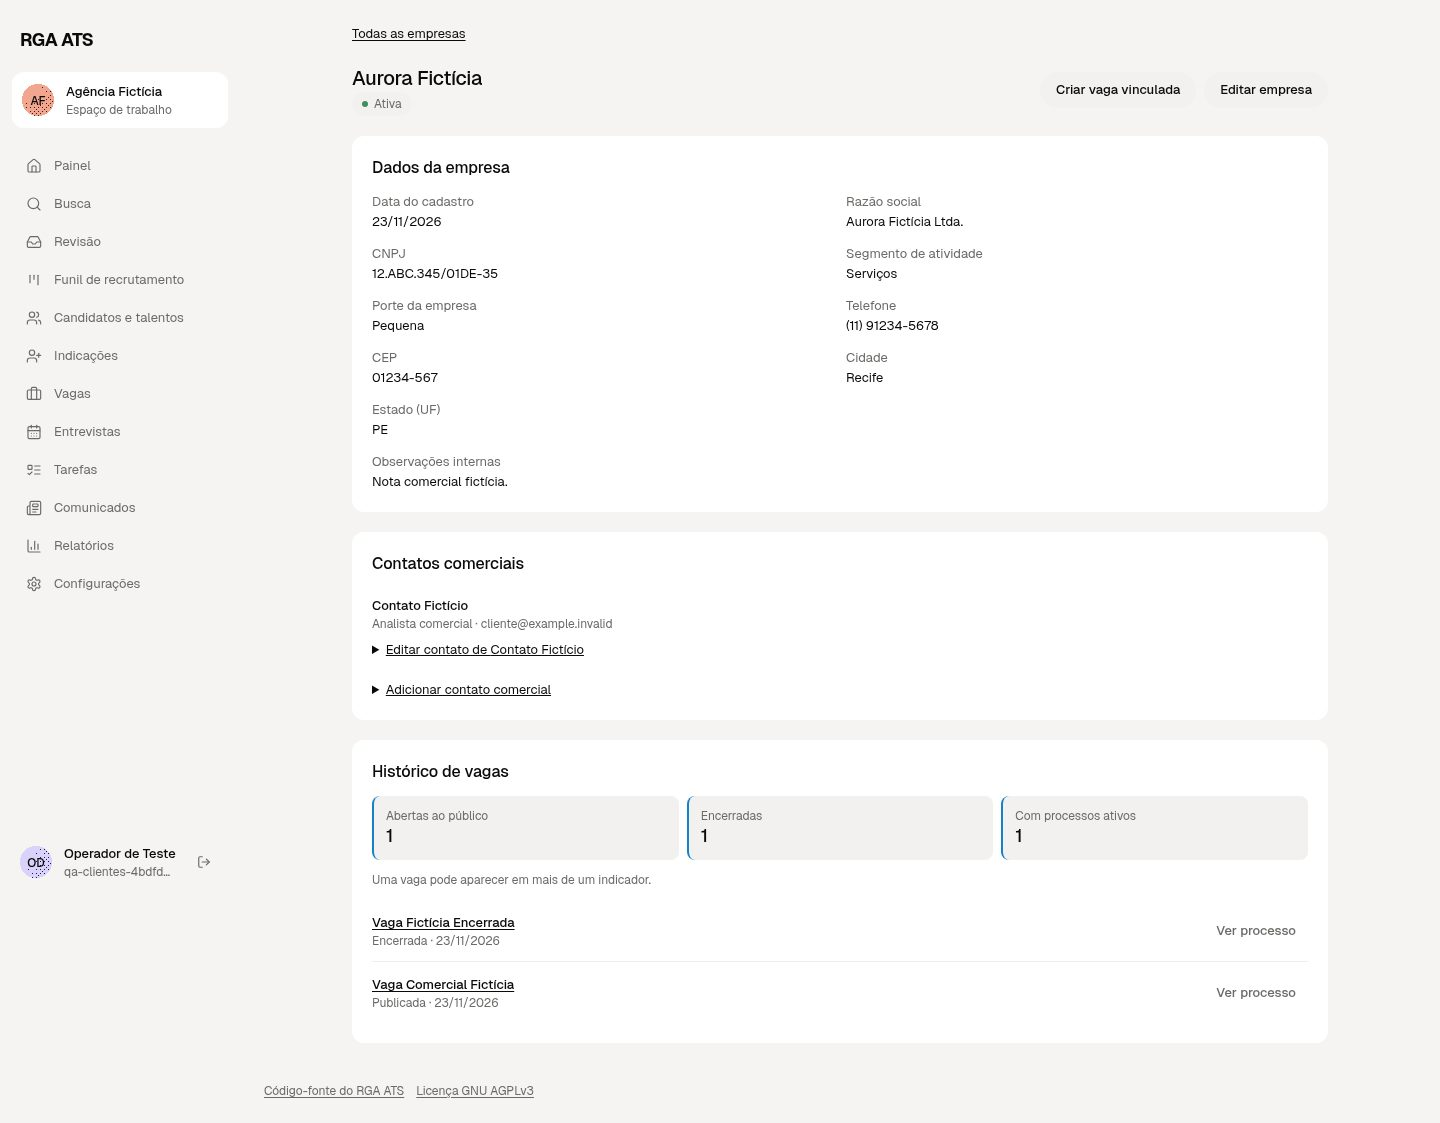
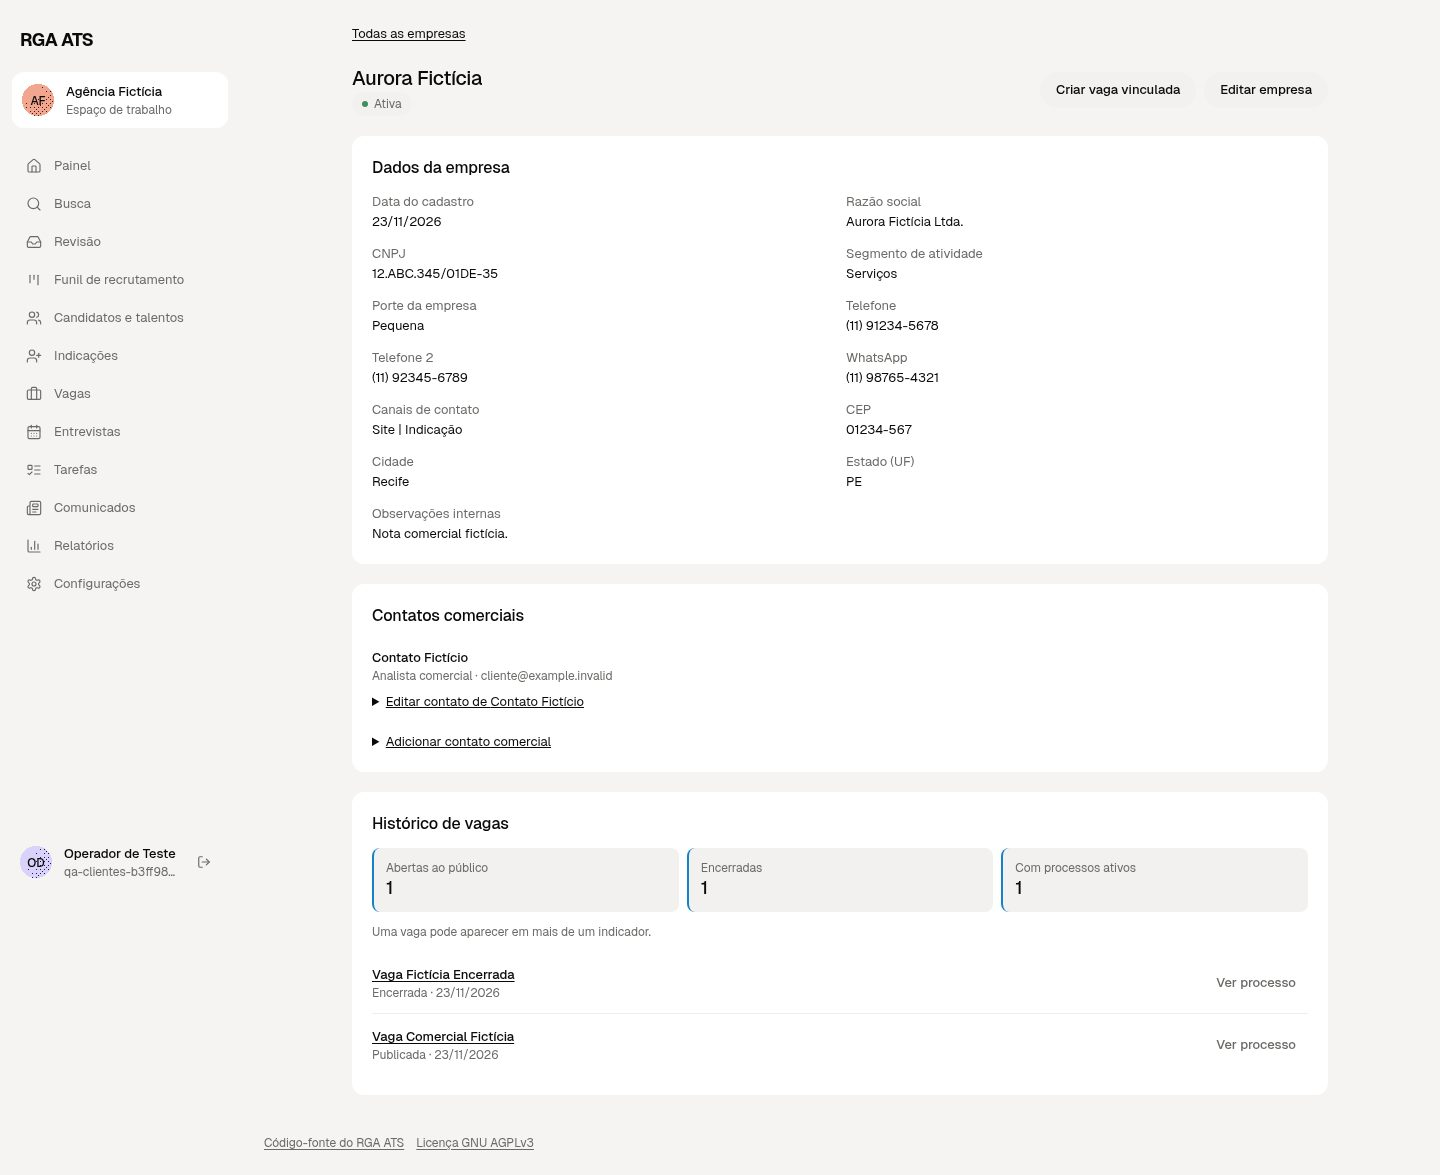
Preservar empresas clientes na exportação e restauração

diff --git a/tests/export-import.test.ts b/tests/export-import.test.ts
@@ -1,16 +1,32 @@
 import { execFileSync } from 'node:child_process';
-import { mkdtempSync, writeFileSync } from 'node:fs';
+import { randomUUID } from 'node:crypto';
+import { mkdtempSync, rmSync, writeFileSync } from 'node:fs';
 import { tmpdir } from 'node:os';
 import path from 'node:path';
 import { beforeAll, describe, expect, it, vi } from 'vitest';
 import { hasDb } from './setup';
 import { candidate, createOrg } from './fixtures';
 import { db } from '@/lib/db';
+import { clientPostingHistory, setPostingClient } from '@/server/client-companies';
 
 const auth = vi.hoisted(() => ({ session: null as null | { user: { orgId: string; accessRole: string } } }));
 vi.mock('@/lib/auth', () => ({ auth: async () => auth.session }));
 
 const { GET } = await import('@/app/api/export/route');
+
+function restoreOrg(text: string, slug: string) {
+  const directory = mkdtempSync(path.join(tmpdir(), 'source-export-'));
+  try {
+    const file = path.join(directory, 'export.json');
+    writeFileSync(file, text);
+    execFileSync(process.execPath, ['scripts/import-org.mjs', file, '--slug', slug], {
+      env: { ...process.env, DATABASE_URL: process.env.TEST_DATABASE_URL, DIRECT_URL: process.env.TEST_DATABASE_URL },
+      stdio: 'pipe',
+    });
+  } finally {
+    rmSync(directory, { recursive: true, force: true });
+  }
+}
 
 async function counts(orgId: string) {
   const [contacts, opportunities, transitions, interviews, panel, notes, events] = await Promise.all([
@@ -60,16 +76,11 @@ describe.skipIf(!hasDb)('org export → import-org round trip', () => {
     expect(response.headers.get('content-disposition')).toMatch(/attachment; filename="source-export-/);
     const text = await response.text();
     const dump = JSON.parse(text);
-    expect(dump.exportVersion).toBe(2);
+    expect(dump.exportVersion).toBe(3);
     expect(dump.contacts).toHaveLength(1_101);
 
-    const file = path.join(mkdtempSync(path.join(tmpdir(), 'source-export-')), 'export.json');
-    writeFileSync(file, text);
-    const slug = `copy-${Date.now()}`;
-    execFileSync('node', ['scripts/import-org.mjs', file, '--slug', slug], {
-      env: { ...process.env, DATABASE_URL: process.env.TEST_DATABASE_URL, DIRECT_URL: process.env.TEST_DATABASE_URL },
-      stdio: 'pipe',
-    });
+    const slug = `copy-${randomUUID()}`;
+    restoreOrg(text, slug);
 
     const copy = await db.organization.findUniqueOrThrow({ where: { slug } });
     expect(await counts(copy.id)).toEqual(await counts(orgId));
@@ -109,5 +120,122 @@ describe.skipIf(!hasDb)('org export → import-org round trip', () => {
     const contactIds = new Set(dump.contacts.map((c: { id: string }) => c.id));
     const dangling = dump.opportunities.filter((o: { contactId: string }) => !contactIds.has(o.contactId));
     expect(dangling).toEqual([]);
+  });
+});
+
+describe.skipIf(!hasDb)('client company export → restore', () => {
+  let sourceOrgId: string;
+  let sourceCompany: Awaited<ReturnType<typeof db.clientCompany.create>>;
+  let formerCompanyId: string;
+  let sourceContact: Awaited<ReturnType<typeof db.clientCompanyContact.create>>;
+  let sourcePostingId: string;
+  let foreignOrgId: string;
+  let foreignCompanyId: string;
+  let exportText: string;
+
+  beforeAll(async () => {
+    const { org, admin } = await createOrg();
+    sourceOrgId = org.id;
+    await db.organization.update({ where: { id: org.id }, data: { kind: 'AGENCY' } });
+    const { org: foreignOrg } = await createOrg();
+    foreignOrgId = foreignOrg.id;
+    const foreignCompany = await db.clientCompany.create({ data: { orgId: foreignOrgId, name: 'Outra organização' } });
+    foreignCompanyId = foreignCompany.id;
+    await db.clientCompanyContact.create({ data: { clientCompanyId: foreignCompanyId, name: 'Contato externo' } });
+
+    const former = await db.clientCompany.create({ data: { orgId: org.id, name: 'Cliente anterior', createdAt: null } });
+    formerCompanyId = former.id;
+    const current = await db.clientCompany.create({
+      data: {
+        orgId: org.id, name: 'Empresa Fictícia', legalName: 'Empresa Fictícia Ltda.',
+        cnpj: '12ABC34501DE35', stateRegistration: '123456', segment: 'Serviços', size: 'Pequena',
+        responsibleName: 'Pessoa Fictícia', responsibleRole: 'Compras', phone: '1134567890',
+        secondaryPhone: '11912345678', whatsapp: '11987654321', channels: 'Site | Indicação',
+        email: 'empresa@example.invalid', website: 'https://empresa.example.invalid/',
+        postalCode: '01234567', address: 'Rua Fictícia, 10', city: 'São Paulo', state: 'SP',
+        notes: 'Nota interna\nSegunda linha', source: 'Indicação', externalSource: 'gestao-de-trabalho',
+        externalId: 'emp-001', createdAt: new Date('2025-05-20T12:34:00Z'),
+      },
+    });
+    sourceContact = await db.clientCompanyContact.create({
+      data: {
+        clientCompanyId: current.id, name: 'Contato Fictício', role: 'RH',
+        phone: '1123456789', whatsapp: '11923456789', email: 'contato@example.invalid',
+      },
+    });
+    const posting = await db.posting.create({
+      data: { orgId: org.id, clientCompanyId: former.id, title: 'Vaga fictícia', slug: 'vaga-ficticia' },
+    });
+    sourcePostingId = posting.id;
+    await setPostingClient({ orgId: org.id, userId: admin.id, accessRole: 'SUPER_ADMIN' }, posting.id, current.id);
+    sourceCompany = await db.clientCompany.update({ where: { id: current.id }, data: { active: false } });
+    auth.session = { user: { orgId: org.id, accessRole: 'ADMIN' } };
+    exportText = await (await GET()).text();
+  });
+
+  it('restores every profile and contact field, current links and the previous-client history', async () => {
+    const dump = JSON.parse(exportText);
+    expect(dump.exportVersion).toBe(3);
+    expect(dump.clientCompanies.map(({ id }: { id: string }) => id)).toEqual(expect.arrayContaining([sourceCompany.id, formerCompanyId]));
+    expect(dump.clientCompanies).toHaveLength(2);
+    expect(dump.clientCompanyContacts).toEqual([sourceContact]);
+    const slug = `restore-clients-${randomUUID()}`;
+    restoreOrg(exportText, slug);
+    const copy = await db.organization.findUniqueOrThrow({ where: { slug }, include: { users: true } });
+    const companies = await db.clientCompany.findMany({ where: { orgId: copy.id }, include: { commercialContacts: true } });
+    const company = companies.find((c) => c.name === sourceCompany.name)!;
+    const previous = companies.find((c) => c.name === 'Cliente anterior')!;
+    expect(company.id).not.toBe(sourceCompany.id);
+    expect(company.commercialContacts).toHaveLength(1);
+    expect(company.commercialContacts[0].id).not.toBe(sourceContact.id);
+    expect(company).toEqual({
+      ...sourceCompany, id: company.id, orgId: copy.id,
+      commercialContacts: [{ ...sourceContact, id: company.commercialContacts[0].id, clientCompanyId: company.id }],
+    });
+    expect(previous).toMatchObject({ active: true, createdAt: null });
+    expect(previous.id).not.toBe(formerCompanyId);
+    const posting = await db.posting.findFirstOrThrow({ where: { orgId: copy.id } });
+    expect(posting).toMatchObject({ title: 'Vaga fictícia', clientCompanyId: company.id });
+    expect(posting.id).not.toBe(sourcePostingId);
+    const history = await clientPostingHistory({ orgId: copy.id, userId: copy.users[0].id, accessRole: 'SUPER_ADMIN' }, previous.id);
+    expect(history.previous).toEqual([expect.objectContaining({ subjectId: posting.id, title: posting.title })]);
+    expect(await db.contact.count({ where: { orgId: copy.id } })).toBe(0);
+  });
+
+  it.each([1, 2])('restores old v%s dumps with basic client records and remaps posting links', async (version) => {
+    const dump = JSON.parse(exportText);
+    dump.exportVersion = version;
+    dump.clientCompanies = [{ id: sourceCompany.id, orgId: sourceOrgId, name: sourceCompany.name }];
+    delete dump.clientCompanyContacts;
+    if (version === 1) {
+      for (const key of ['tasks', 'offers', 'requisitions', 'customFieldDefs', 'planSteps', 'transcripts', 'savedReports', 'eeoResponses', 'importRefs']) {
+        delete dump[key];
+      }
+    }
+    const slug = `restore-v${version}-${randomUUID()}`;
+    restoreOrg(JSON.stringify(dump), slug);
+    const copy = await db.organization.findUniqueOrThrow({ where: { slug } });
+    const company = await db.clientCompany.findFirstOrThrow({ where: { orgId: copy.id } });
+    expect(company).toMatchObject({ name: sourceCompany.name, active: true, createdAt: null, cnpj: null });
+    expect(company.id).not.toBe(sourceCompany.id);
+    expect(await db.posting.findFirstOrThrow({ where: { orgId: copy.id } })).toMatchObject({ clientCompanyId: company.id });
+    expect(await db.clientCompanyContact.count({ where: { clientCompanyId: company.id } })).toBe(0);
+  });
+
+  it.each([
+    ['company', /Client company belongs to another organization/],
+    ['contact', /Commercial contact references a client company outside the export/],
+    ['posting link', /Posting references a client company outside the export/],
+    ['posting owner', /Posting belongs to another organization/],
+  ] as const)('rejects a foreign %s and leaves the destination untouched', async (record, message) => {
+    const dump = JSON.parse(exportText);
+    if (record === 'company') dump.clientCompanies[0].orgId = foreignOrgId;
+    if (record === 'contact') dump.clientCompanyContacts[0].clientCompanyId = foreignCompanyId;
+    if (record === 'posting link') dump.postings[0].clientCompanyId = foreignCompanyId;
+    if (record === 'posting owner') dump.postings[0].orgId = foreignOrgId;
+    const slug = `invalid-restore-${randomUUID()}`;
+    expect(() => restoreOrg(JSON.stringify(dump), slug)).toThrow(message);
+    expect(await db.organization.findUnique({ where: { slug } })).toBeNull();
+    expect(await db.clientCompanyContact.count({ where: { clientCompanyId: foreignCompanyId } })).toBe(1);
   });
 });

diff --git a/src/app/api/export/route.ts b/src/app/api/export/route.ts
@@ -10,9 +10,8 @@ import { db } from '@/lib/db';
  *
  * Streamed: each collection is read in id-ordered batches and written as it
  * goes, so memory stays flat and the download has no size ceiling (Vercel's
- * 4.5MB response cap doesn't apply to streamed bodies). The document shape is
- * identical to the old all-at-once export, so scripts/import-org.mjs reads it
- * unchanged.
+ * 4.5MB response cap doesn't apply to streamed bodies). The versioned
+ * document is read by scripts/import-org.mjs.
  *
  * All batches run in one read-only REPEATABLE READ transaction, so every
  * collection sees the same moment: a candidate added mid-export is either
@@ -49,7 +48,8 @@ function collections(db: Tx, orgId: string): [string, Batch][] {
         }),
     ],
     ['departments', (c) => db.department.findMany({ where: org, ...page(c) })],
-    ['clientCompanies', (c) => db.clientCompany.findMany({ where: org, select: { id: true, orgId: true, name: true }, ...page(c) })],
+    ['clientCompanies', (c) => db.clientCompany.findMany({ where: org, ...page(c) })],
+    ['clientCompanyContacts', (c) => db.clientCompanyContact.findMany({ where: { clientCompany: org }, ...page(c) })],
     ['stages', (c) => db.stage.findMany({ where: org, ...page(c) })],
     ['archiveReasons', (c) => db.archiveReason.findMany({ where: org, ...page(c) })],
     ['contacts', (c) => db.contact.findMany({ where: org, ...page(c) })],
@@ -92,9 +92,8 @@ function collections(db: Tx, orgId: string): [string, Batch][] {
 }
 
 async function* exportDocument(db: Tx, orgId: string, organization: unknown): AsyncGenerator<string> {
-  // v2 adds tasks/offers/requisitions/custom fields/plan steps/
-  // transcripts/saved reports/EEO; the importer accepts v1 too.
-  yield `{"exportVersion":2,"exportedAt":${JSON.stringify(new Date().toISOString())},`;
+  // v3 includes full client company profiles and their commercial contacts.
+  yield `{"exportVersion":3,"exportedAt":${JSON.stringify(new Date().toISOString())},`;
   yield `"organization":${JSON.stringify(organization)}`;
   for (const [key, next] of collections(db, orgId)) {
     yield `,${JSON.stringify(key)}:[`;

diff --git a/src/lib/client-company.ts b/src/lib/client-company.ts
@@ -13,7 +13,9 @@ export const companyFields = {
   responsibleName: 'Nome do responsável',
   responsibleRole: 'Cargo do responsável',
   phone: 'Telefone',
+  secondaryPhone: 'Telefone 2',
   whatsapp: 'WhatsApp',
+  channels: 'Canais de contato',
   email: 'E-mail',
   website: 'Site',
   postalCode: 'CEP',
@@ -124,7 +126,8 @@ export function parseCompany(form: FormData) {
     name, legalName, cnpj, state, postalCode,
     stateRegistration: read('stateRegistration', 40), segment: read('segment'), size: read('size'),
     responsibleName: read('responsibleName'), responsibleRole: read('responsibleRole'),
-    phone: parsePhone(read('phone', 32)), whatsapp: parsePhone(read('whatsapp', 32)),
+    phone: parsePhone(read('phone', 32)), secondaryPhone: parsePhone(read('secondaryPhone', 32)),
+    whatsapp: parsePhone(read('whatsapp', 32)), channels: read('channels'),
     email: parseEmail(read('email', 254)), website: parseWebsite(read('website', 512)),
     address: read('address', 300), city: read('city'), source: read('source'),
     notes: read('notes', 4000), active: form.get('status') !== 'inactive',

diff --git a/src/app/(app)/clients/[id]/page.tsx b/src/app/(app)/clients/[id]/page.tsx
@@ -29,7 +29,8 @@ export default async function ClientDetailPage({ params, searchParams }: {
     ['legalName', client.legalName], ['cnpj', client.cnpj && maskCnpj(client.cnpj)],
     ['stateRegistration', client.stateRegistration], ['segment', client.segment], ['size', client.size],
     ['responsibleName', client.responsibleName], ['responsibleRole', client.responsibleRole],
-    ['phone', client.phone && maskPhone(client.phone)], ['whatsapp', client.whatsapp && maskPhone(client.whatsapp)],
+    ['phone', client.phone && maskPhone(client.phone)], ['secondaryPhone', client.secondaryPhone && maskPhone(client.secondaryPhone)],
+    ['whatsapp', client.whatsapp && maskPhone(client.whatsapp)], ['channels', client.channels],
     ['email', client.email], ['website', client.website], ['postalCode', client.postalCode && maskPostalCode(client.postalCode)],
     ['address', client.address], ['city', client.city], ['state', client.state], ['source', client.source],
     ['notes', client.notes],

diff --git a/src/lib/__tests__/client-company.test.ts b/src/lib/__tests__/client-company.test.ts
@@ -36,4 +36,14 @@ describe('client company fields', () => {
     expect(parseCompany(form({ name: 'Empresa fictícia', website: 'empresa.example' })).website).toBe('https://empresa.example/');
     expect(companyNameKey('  Fíctícia    Ltda  ')).toBe('ficticia ltda');
   });
+
+  it('keeps the second phone, WhatsApp and contact channels separate', () => {
+    expect(parseCompany(form({
+      name: 'Empresa fictícia', phone: '1134567890', secondaryPhone: '+55 (11) 91234-5678',
+      whatsapp: '(11) 98765-4321', channels: 'Site | Indicação',
+    }))).toMatchObject({
+      phone: '1134567890', secondaryPhone: '11912345678', whatsapp: '11987654321', channels: 'Site | Indicação',
+    });
+    expect(() => parseCompany(form({ name: 'Empresa fictícia', secondaryPhone: '999' }))).toThrow(/número brasileiro/);
+  });
 });

diff --git a/src/components/client-company-form.tsx b/src/components/client-company-form.tsx
@@ -69,7 +69,8 @@ export function ClientCompanyForm({ company }: { company?: ClientValues }) {
       </Section>
       <Section title="Responsável e canais de contato">
         {input('responsibleName')}{input('responsibleRole')}
-        {input('phone', maskPhone, 'tel')}{input('whatsapp', maskPhone, 'tel')}
+        {input('phone', maskPhone, 'tel')}{input('secondaryPhone', maskPhone, 'tel')}
+        {input('whatsapp', maskPhone, 'tel')}{input('channels')}
         {input('email', undefined, 'email')}{input('website')}
       </Section>
       <Section title="Endereço e observações">

diff --git a/docs/07-migration.md b/docs/07-migration.md
@@ -13,12 +13,29 @@ over from another ATS.
 
 ## Moving an organization between deployments
 
-The unit of migration is the **organization export**: Settings → Data export downloads a single versioned JSON file (`exportVersion: 1`) containing the org, users (no credentials), departments/clients, stages, archive reasons, contacts, postings, opportunities, full stage-transition history, interviews, feedback, notes, email templates/messages, and the complete event stream.
+The unit of migration is the **organization export**. Settings → Data export downloads a single versioned JSON file containing the organization, users without credentials, departments, client companies, stages, archive reasons, contacts, postings, opportunities, stage-transition history, interviews, feedback, notes, email templates/messages, and the event stream.
 
 - **Self-hosted → hosted**: export from your instance, import into a fresh org on the hosted service (Source ATS). Because both run the same Prisma schema, the import is a mechanical ID-remapping load, not a lossy translation.
 - **Hosted → self-hosted** (no lock-in): the same export is available on Source ATS; import into your own instance. For large orgs, a raw Postgres dump path can also be offered on request — it is literally the same schema.
 
-**Status:** both halves ship now. Export (v2 — includes tasks, offers, requisitions, transcripts, custom fields, plan steps, saved reports, and aggregate EEO data) from Settings → Data export; import with `npm run import-org -- export.json --slug new-slug` against the target deployment's DATABASE_URL (v1 files still import). IDs are remapped mechanically; teammates reset passwords after import (credentials never migrate); file binaries move separately from blob/disk storage.
+Export v3 includes the full client-company profile, commercial contacts, and their links to postings and posting history. It retains the tasks, offers, requisitions, transcripts, custom fields, plan steps, saved reports, and aggregate EEO data introduced in v2. Use `npm run import-org -- export.json --slug new-slug` with the target deployment's DATABASE_URL. The importer also reads v1 and v2. A legacy company with no registration date restores with an unknown date and defaults to active if the file omits its status. Contacts and fields absent from the file cannot be recovered. IDs are remapped to the new organization. Teammates reset passwords after import, and file binaries move separately from blob/disk storage.
+
+## RGA ATS — mapeamento de empresas para a Parte 6/6
+
+| Coluna da aba Empresas | Campo de destino | Tratamento na futura importação |
+|---|---|---|
+| Telefone 2 | `ClientCompany.secondaryPhone` | Conservar como segundo telefone. Normalizar números brasileiros válidos e registrar valores não reconhecidos para revisão. |
+| Canais | `ClientCompany.channels` | Preservar o texto e os separadores da célula em um campo próprio, sem disparar comunicações ou inferir números de WhatsApp. |
+
+Usar `externalSource` e o identificador de origem estável em `externalId` para reconciliar empresas dentro da organização. Usar o CNPJ normalizado para conferir duplicidades e resolver divergências antes de vincular vagas pelo ID remapeado da empresa. A leitura das planilhas e a carga de dados ficam para a Parte 6/6.
+
+## RGA ATS — aprovação da implantação em homologação
+
+O contêiner do Cloud Run executa `node scripts/migrate.mjs` antes de iniciar a aplicação. A primeira inicialização da revisão aprovada aplica as migrações pendentes ao banco configurado para a revisão.
+
+1. Antes de aprovar o build, conferir que o gatilho selecionou `homolog` e o SHA auditado. Conferir que a revisão e a conexão usada pelo migrador apontam para o Neon de homologação isolado do banco de produção.
+2. Registrar um snapshot, ponto de restauração ou backup verificável do Neon de homologação e identificar a última revisão saudável do Cloud Run. Definir quem executará a recuperação e como validará o banco restaurado.
+3. Em caso de falha na inicialização ou nas verificações após o deploy, manter ou devolver o tráfego à revisão saudável. Reverter o tráfego mantém as mudanças já aplicadas ao banco. Se houver necessidade de recuperar dados ou esquema, restaurar o ponto registrado em uma instância isolada, validar e autorizar o redirecionamento de homologação antes de retomar a publicação.
 
 ## Migrating from another ATS
 
